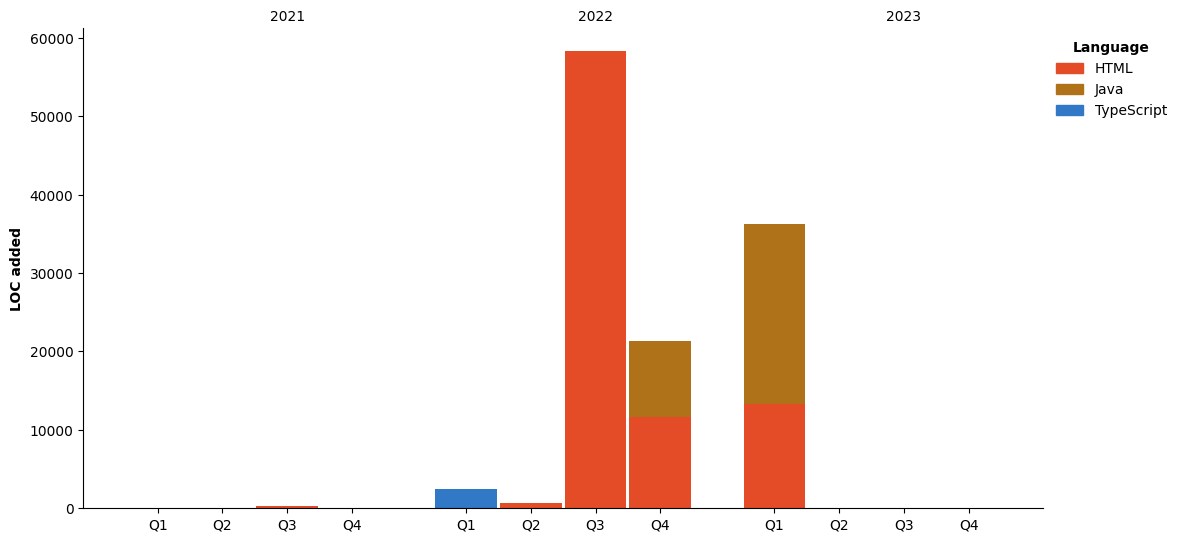
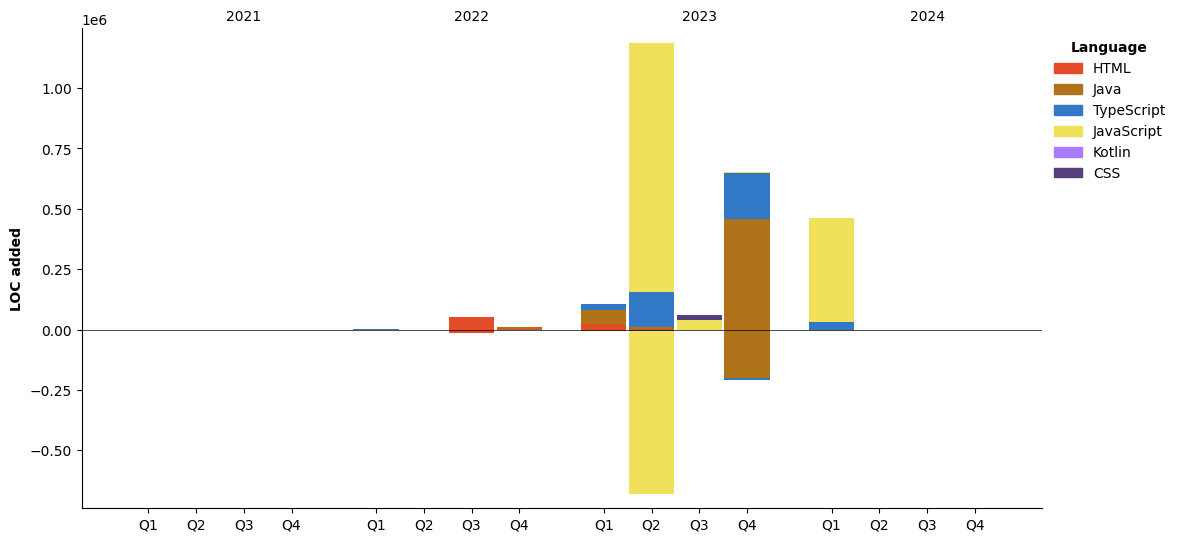
Updated with Dev Metrics

diff --git a/README.md b/README.md
@@ -55,9 +55,42 @@
 <h2 align="center">Wakatime Stats:</h2>
 
 <!--START_SECTION:waka-->
-![Code Time](http://img.shields.io/badge/Code%20Time-1%2C171%20hrs%2042%20mins-blue)
+![Code Time](http://img.shields.io/badge/Code%20Time-1%2C193%20hrs%2023%20mins-blue)
 
-![Profile Views](http://img.shields.io/badge/Profile%20Views-0-blue)
+![Profile Views](http://img.shields.io/badge/Profile%20Views-12-blue)
+
+**🐱 My GitHub Data** 
+
+> 📦 403.5 kB Used in GitHub's Storage 
+ > 
+> 🏆 53 Contributions in the Year 2024
+ > 
+> 💼 Opted to Hire
+ > 
+> 📜 13 Public Repositories 
+ > 
+> 🔑 48 Private Repositories 
+ > 
+**I'm an Early 🐤** 
+
+```text
+🌞 Morning                342 commits         ███████░░░░░░░░░░░░░░░░░░   28.52 % 
+🌆 Daytime                397 commits         ████████░░░░░░░░░░░░░░░░░   33.11 % 
+🌃 Evening                443 commits         █████████░░░░░░░░░░░░░░░░   36.95 % 
+🌙 Night                  17 commits          ░░░░░░░░░░░░░░░░░░░░░░░░░   01.42 % 
+```
+📅 **I'm Most Productive on Sunday** 
+
+```text
+Monday                   93 commits          ██░░░░░░░░░░░░░░░░░░░░░░░   07.76 % 
+Tuesday                  114 commits         ██░░░░░░░░░░░░░░░░░░░░░░░   09.51 % 
+Wednesday                178 commits         ████░░░░░░░░░░░░░░░░░░░░░   14.85 % 
+Thursday                 188 commits         ████░░░░░░░░░░░░░░░░░░░░░   15.68 % 
+Friday                   189 commits         ████░░░░░░░░░░░░░░░░░░░░░   15.76 % 
+Saturday                 154 commits         ███░░░░░░░░░░░░░░░░░░░░░░   12.84 % 
+Sunday                   283 commits         ██████░░░░░░░░░░░░░░░░░░░   23.60 % 
+```
+
 
 📊 **This Week I Spent My Time On** 
 
@@ -65,14 +98,47 @@
 🕑 Time Zone: Asia/Kolkata
 
 💬 Programming Languages: 
-TypeScript               10 hrs 43 mins      ██████████████░░░░░░░░░░░   54.11 % 
-JavaScript               7 hrs 4 mins        █████████░░░░░░░░░░░░░░░░   35.72 % 
-CSS                      1 hr 8 mins         █░░░░░░░░░░░░░░░░░░░░░░░░   05.77 % 
-Bash                     32 mins             █░░░░░░░░░░░░░░░░░░░░░░░░   02.72 % 
-JSON                     15 mins             ░░░░░░░░░░░░░░░░░░░░░░░░░   01.28 % 
+TypeScript               2 hrs 45 mins       ███████████████░░░░░░░░░░   58.14 % 
+Other                    1 hr 23 mins        ███████░░░░░░░░░░░░░░░░░░   29.25 % 
+HTML                     21 mins             ██░░░░░░░░░░░░░░░░░░░░░░░   07.47 % 
+Markdown                 7 mins              █░░░░░░░░░░░░░░░░░░░░░░░░   02.74 % 
+CSS                      3 mins              ░░░░░░░░░░░░░░░░░░░░░░░░░   01.37 % 
+
+🔥 Editors: 
+VS Code                  3 hrs 43 mins       ████████████████████░░░░░   78.86 % 
+Google Calendar          1 hr                █████░░░░░░░░░░░░░░░░░░░░   21.14 % 
+
+🐱💻 Projects: 
+lifelike-learn-react     1 hr 50 mins        ██████████░░░░░░░░░░░░░░░   38.94 % 
+Unknown Project          1 hr                █████░░░░░░░░░░░░░░░░░░░░   21.14 % 
+angel-saikia             53 mins             █████░░░░░░░░░░░░░░░░░░░░   18.88 % 
+course                   26 mins             ██░░░░░░░░░░░░░░░░░░░░░░░   09.23 % 
+plura                    11 mins             █░░░░░░░░░░░░░░░░░░░░░░░░   04.13 % 
+
+💻 Operating System: 
+Mac                      2 hrs 42 mins       ██████████████░░░░░░░░░░░   57.27 % 
+WSL                      1 hr 1 min          █████░░░░░░░░░░░░░░░░░░░░   21.59 % 
+Unknown OS               1 hr                █████░░░░░░░░░░░░░░░░░░░░   21.14 % 
+```
+
+**I Mostly Code in TypeScript** 
+
+```text
+TypeScript               29 repos            ████████████░░░░░░░░░░░░░   48.33 % 
+Java                     9 repos             ████░░░░░░░░░░░░░░░░░░░░░   15.00 % 
+JavaScript               8 repos             ███░░░░░░░░░░░░░░░░░░░░░░   13.33 % 
+CSS                      2 repos             █░░░░░░░░░░░░░░░░░░░░░░░░   03.33 % 
+Kotlin                   1 repo              ░░░░░░░░░░░░░░░░░░░░░░░░░   01.67 % 
 ```
 
 
+
+**Timeline**
+
+![Lines of Code chart](https://raw.githubusercontent.com/Dhunu/Dhunu/main/assets/bar_graph.png)
+
+
+ Last Updated on 20/02/2024 05:15:02 UTC
 <!--END_SECTION:waka-->
 
 
